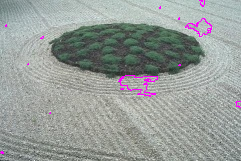
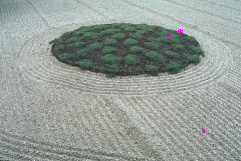
sick

diff --git a/src/main/java/no/woldseth/Main.java b/src/main/java/no/woldseth/Main.java
@@ -31,13 +31,14 @@ public class Main {
         //        File imagefp = new File("./training_images/training_images/test/test_img_shitty_compressed.jpg");
         try {
             Image                   image             = new Image(imagefp);
+
+            //NSGA2 peeop = new NSGA2(100, 2, 2, 0.2, 0.7, image);
+            //var skadoosh = peeop.runGenalg(1000);
+            //image.savePixelGroupEdgeDisplay(skadoosh);
+
             SimpleGenteticAlgorithm genteticAlgorithm = new SimpleGenteticAlgorithm(50, 1, 2, 0.2, 0.7, image);
-            NSGA2 peeop = new NSGA2(50, 1, 2, 0.2, 0.7, image);
-            peeop.runGenalg(300);
-
-            //var ph = genteticAlgorithm.runGenalg(300);
-
-            //image.savePixelGroupEdgeDisplay(ph);
+            var ph = genteticAlgorithm.runGenalg(100);
+            image.savePixelGroupEdgeDisplay(ph);
 
 
         } catch (FileNotFoundException e) {

diff --git a/src/main/java/no/woldseth/evolutionary_algorithm/NSGA2.java b/src/main/java/no/woldseth/evolutionary_algorithm/NSGA2.java
@@ -45,7 +45,7 @@ public class NSGA2 {
         this.numObjectives = 2;
     }
 
-    public void runGenalg(int numGenerations) {
+    public Phenotype runGenalg(int numGenerations) {
         // gen inital pop
         List<MOOEvaluatedPhenotype> population = this.evaluatedGenotypes(genInitialPopulation());
         for (int gen = 0; gen < numGenerations; gen++)
@@ -81,6 +81,7 @@ public class NSGA2 {
         // TODO: 28/04/2022 Fiks resten her Axel
         System.out.println(paretoFront.get(0).connectivity);
         System.out.println("skadoosh");
+        return paretoFront.get(0);
     }
 
     public void frontsToFile(List<List<MOOEvaluatedPhenotype>> m) {
